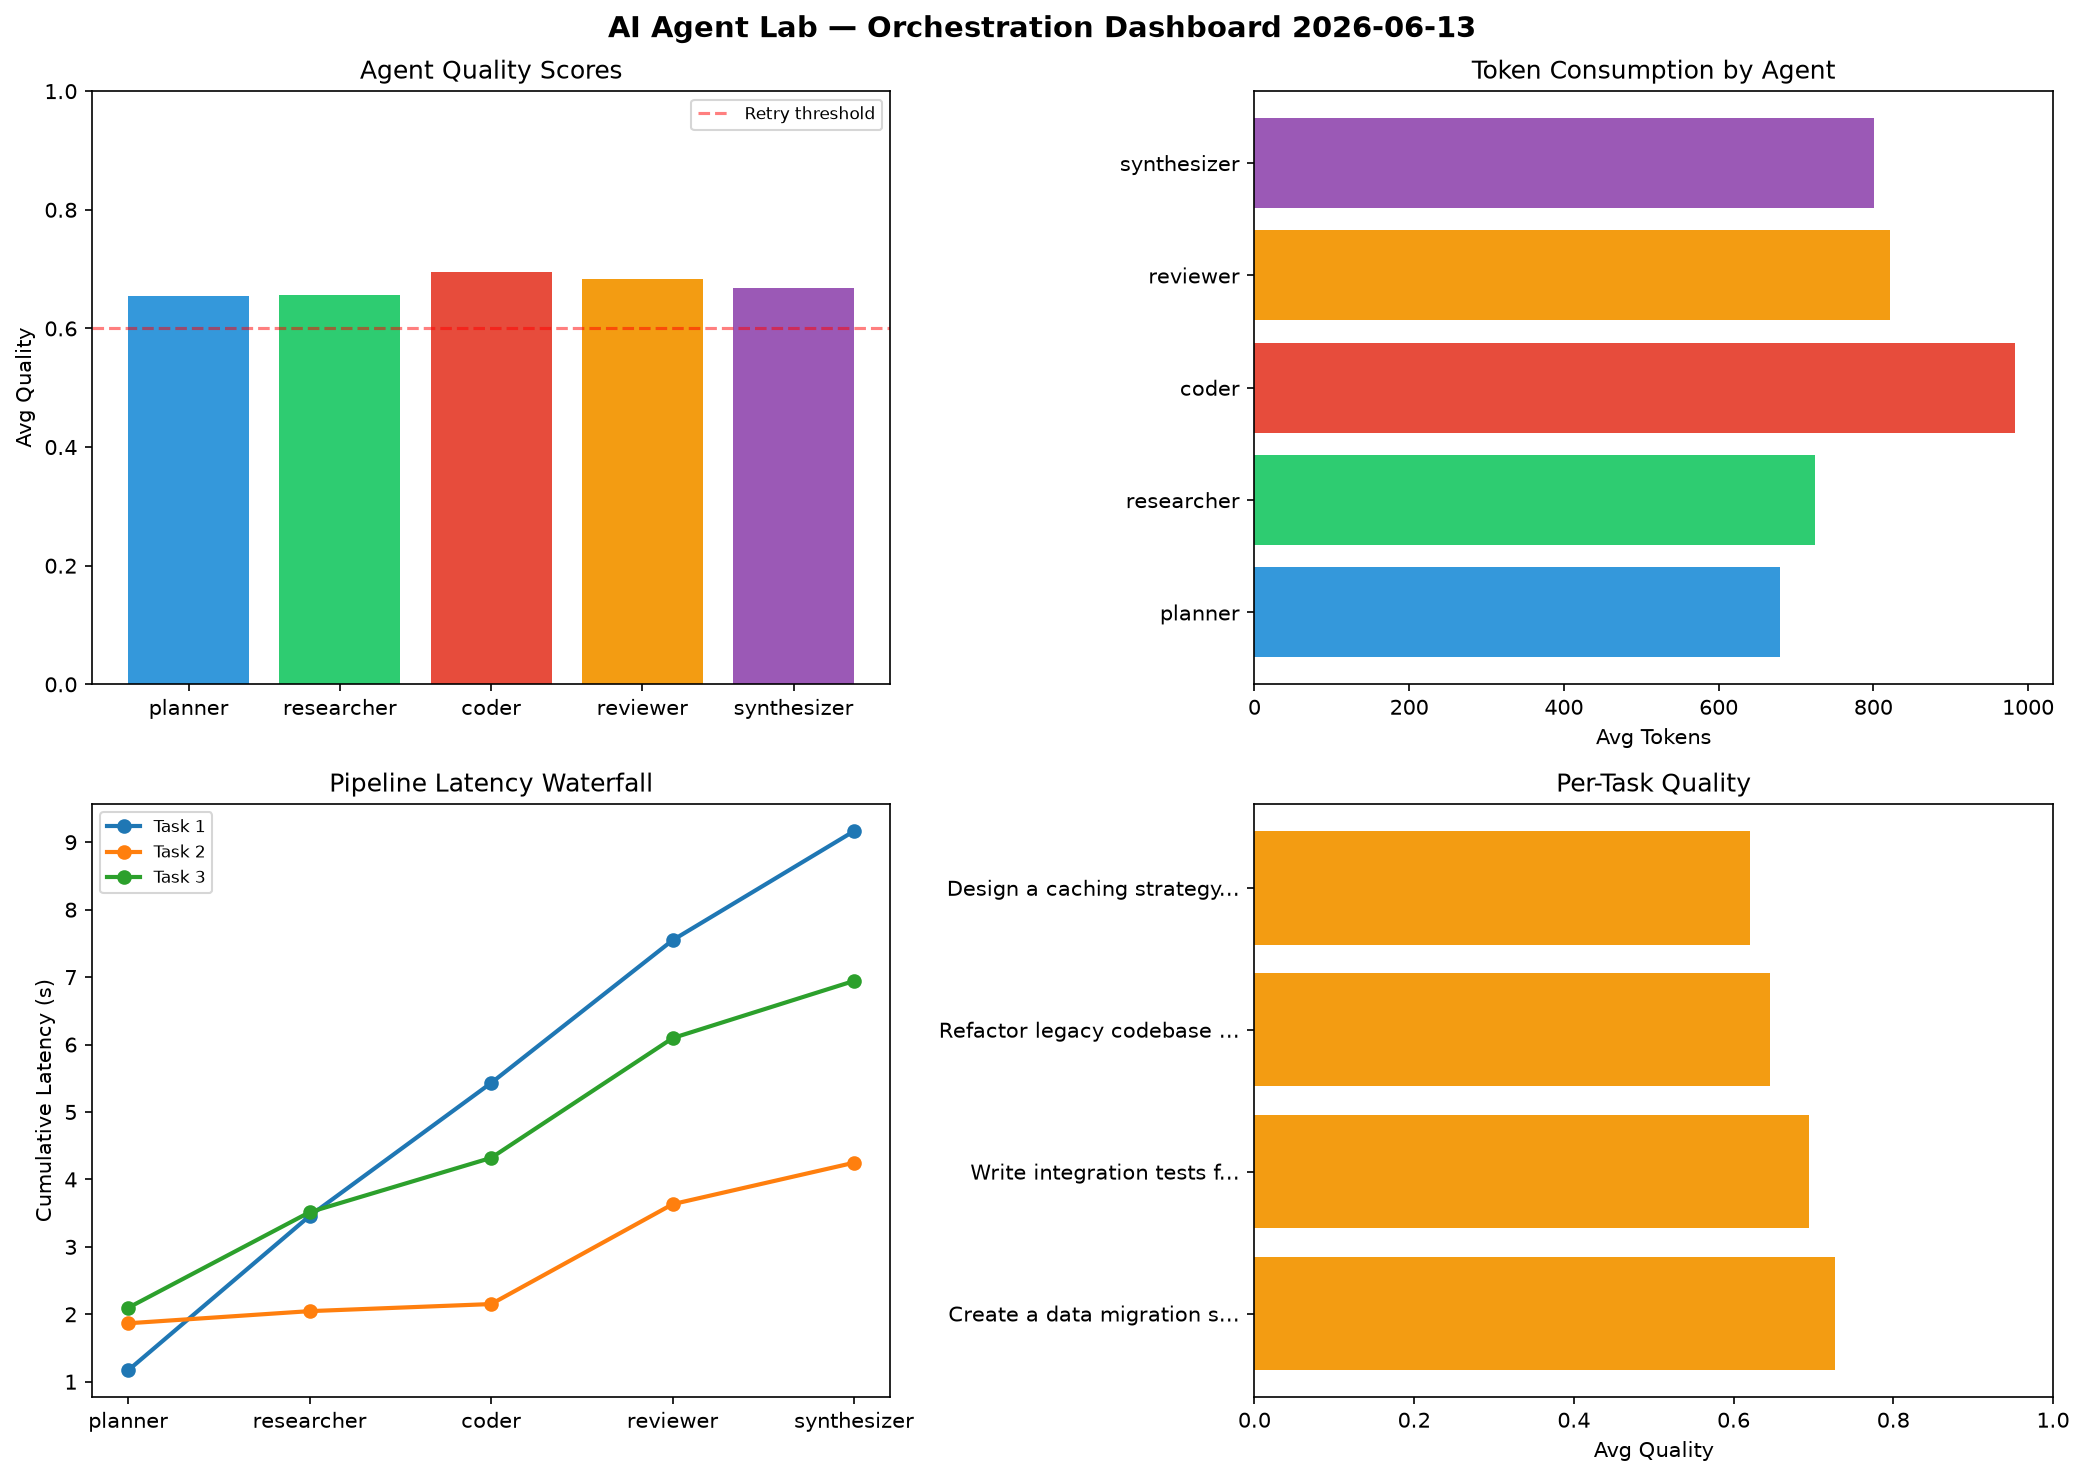
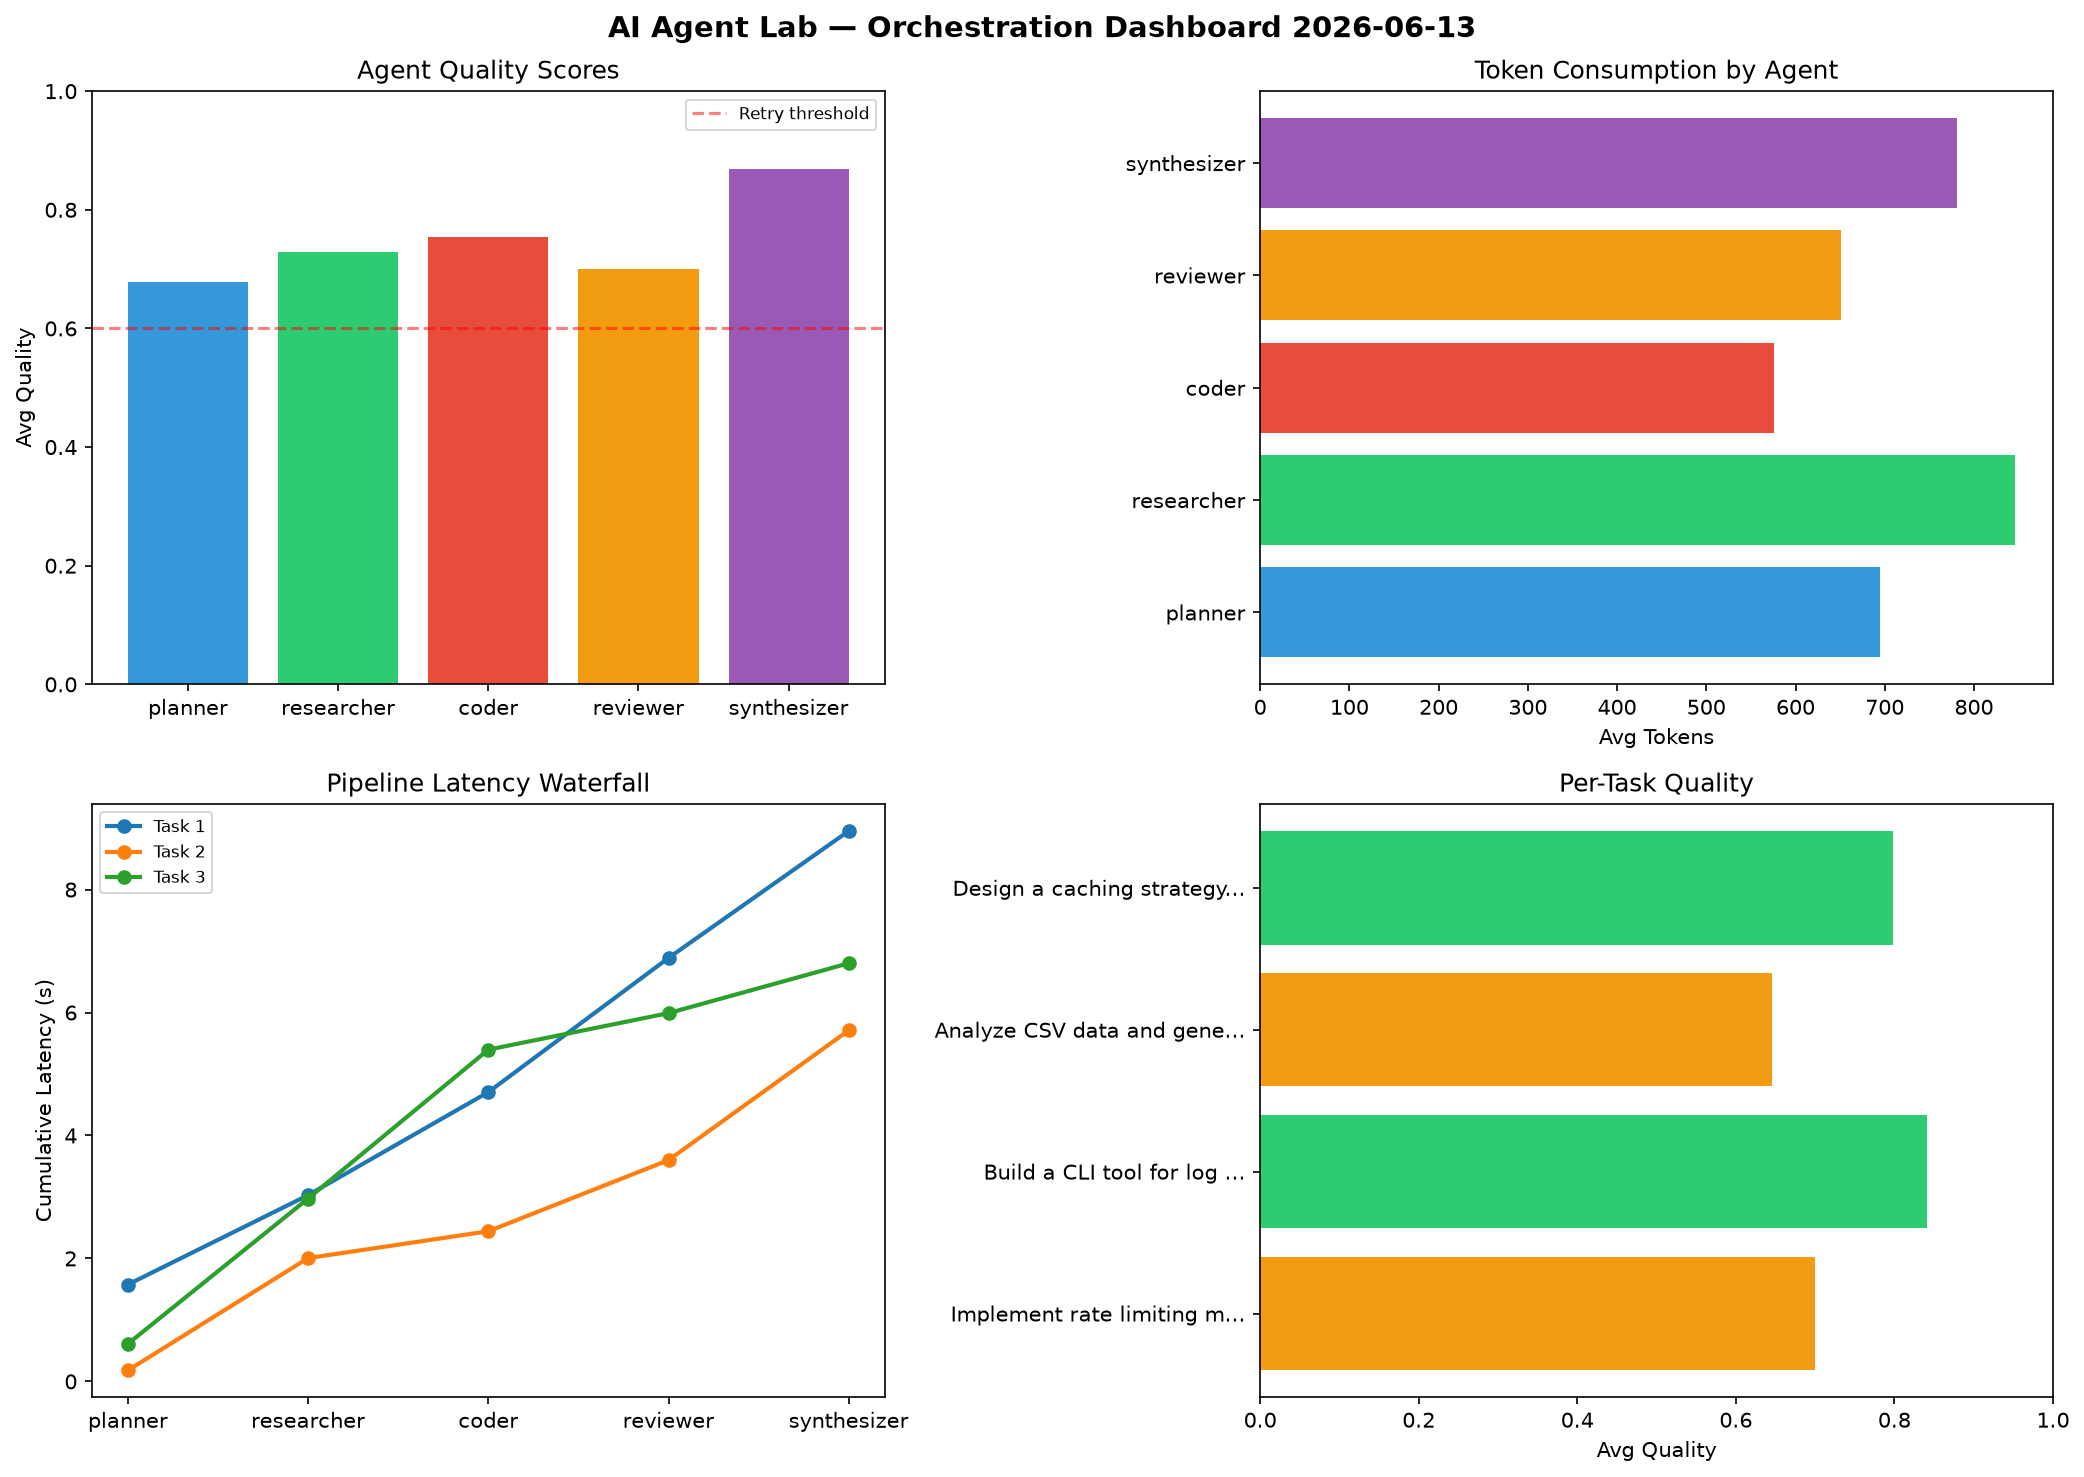
ai-agent-lab: orchestration run 2026-06-13T21:41

diff --git a/logs/2026-06-13.md b/logs/2026-06-13.md
@@ -1,6 +1,6 @@
 # AI Agent Lab — Orchestration Report 2026-06-13
 
-**Run ID:** `5039b5c34b` | **Tasks:** 4 | **Avg Quality:** 0.672
+**Run ID:** `d612e0ed1c` | **Tasks:** 4 | **Avg Quality:** 0.746
 
 ![Dashboard](2026-06-13_dashboard.png)
 
@@ -8,52 +8,52 @@
 
 | Metric | Value |
 |--------|-------|
-| avg_latency | 6.957 |
-| total_tokens | 16037 |
-| avg_quality | 0.672 |
+| avg_latency | 6.613 |
+| total_tokens | 14195 |
+| avg_quality | 0.746 |
 
 ## Delta vs Yesterday
 
 | Metric | Today | Yesterday | Change |
 |--------|-------|-----------|--------|
-| avg_latency | 6.957 | 6.447 | 📈 7.9% |
-| total_tokens | 16037 | 14716 | 📈 9.0% |
-| avg_quality | 0.672 | 0.722 | 📉 -6.9% |
+| avg_latency | 6.613 | 6.447 | 📈 2.6% |
+| total_tokens | 14195 | 14716 | 📉 -3.5% |
+| avg_quality | 0.746 | 0.722 | 📈 3.3% |
 
 ## Pipeline Results
 
-### Create a data migration script for schema v2
+### Implement rate limiting middleware
 | Agent | Quality | Latency | Tokens | Status |
 |-------|---------|---------|--------|--------|
-| planner | 0.583 | 1.17s | 711 | needs_retry |
-| researcher | 0.78 | 2.289s | 754 | success |
-| coder | 0.819 | 1.972s | 1063 | success |
-| reviewer | 0.926 | 2.117s | 836 | success |
-| synthesizer | 0.528 | 1.618s | 671 | needs_retry |
+| planner | 0.913 | 1.576s | 522 | success |
+| researcher | 0.573 | 1.454s | 848 | needs_retry |
+| coder | 0.689 | 1.675s | 504 | success |
+| reviewer | 0.557 | 2.183s | 492 | needs_retry |
+| synthesizer | 0.766 | 2.064s | 686 | success |
 
-### Write integration tests for payment processing module
+### Build a CLI tool for log analysis
 | Agent | Quality | Latency | Tokens | Status |
 |-------|---------|---------|--------|--------|
-| planner | 0.927 | 1.867s | 559 | success |
-| researcher | 0.51 | 0.18s | 784 | needs_retry |
-| coder | 0.786 | 0.105s | 781 | success |
-| reviewer | 0.57 | 1.481s | 1022 | needs_retry |
-| synthesizer | 0.684 | 0.615s | 669 | success |
+| planner | 0.591 | 0.181s | 841 | needs_retry |
+| researcher | 0.967 | 1.825s | 933 | success |
+| coder | 0.859 | 0.436s | 510 | success |
+| reviewer | 0.825 | 1.157s | 787 | success |
+| synthesizer | 0.961 | 2.111s | 1077 | success |
 
-### Refactor legacy codebase to use dependency injection
+### Analyze CSV data and generate statistical summary
 | Agent | Quality | Latency | Tokens | Status |
 |-------|---------|---------|--------|--------|
-| planner | 0.577 | 2.097s | 932 | needs_retry |
-| researcher | 0.541 | 1.418s | 1051 | needs_retry |
-| coder | 0.66 | 0.805s | 1072 | success |
-| reviewer | 0.555 | 1.776s | 892 | needs_retry |
-| synthesizer | 0.899 | 0.848s | 843 | success |
+| planner | 0.699 | 0.612s | 354 | success |
+| researcher | 0.627 | 2.363s | 477 | success |
+| coder | 0.571 | 2.421s | 438 | needs_retry |
+| reviewer | 0.534 | 0.594s | 257 | needs_retry |
+| synthesizer | 0.798 | 0.811s | 528 | success |
 
 ### Design a caching strategy for high-traffic endpoints
 | Agent | Quality | Latency | Tokens | Status |
 |-------|---------|---------|--------|--------|
-| planner | 0.535 | 0.195s | 513 | needs_retry |
-| researcher | 0.797 | 1.438s | 310 | success |
-| coder | 0.516 | 1.999s | 1016 | needs_retry |
-| reviewer | 0.685 | 1.876s | 536 | success |
-| synthesizer | 0.565 | 1.962s | 1022 | needs_retry |
+| planner | 0.513 | 2.024s | 1062 | needs_retry |
+| researcher | 0.748 | 0.961s | 1127 | success |
+| coder | 0.898 | 0.524s | 852 | success |
+| reviewer | 0.882 | 0.733s | 1069 | success |
+| synthesizer | 0.947 | 0.746s | 831 | success |
